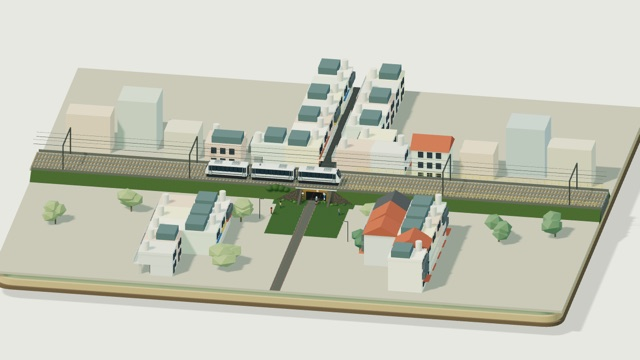
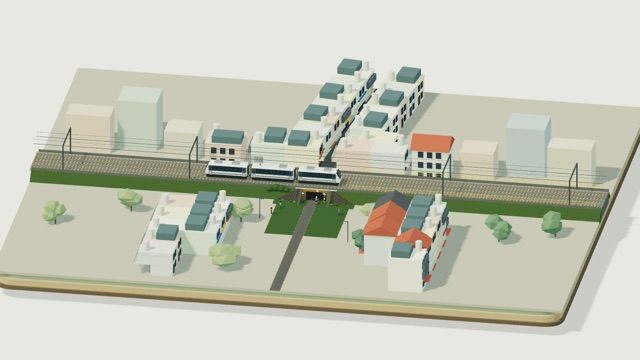
feat(garage/guanghua): 照片比對 r7——出洞後巷子改 7° 緩右彎，轉角房子補淡綠牆、藍招牌與盆栽
照片比對第四輪。r7 評審的優先順序是：A 的暗洞 → 遠處巷子右彎 → 翼牆／右紅線。評分檔與參考照片放在桌面，不進 repo。

場景（guanghua.js）：
- 出洞後的巷子從直線（TH＝0）改成 7° 緩右彎。
  依據：r6 評審量到照片一（B）遠處的路往右彎，消失點約在 57% 寬；TH＝0 時截圖的路盡頭在 25–39% 寬。
  B 機位的水平視角實量 24°，換算兩者約差 6–7°（主對話判讀）。
  先試過 35°：洞口正前方被轉角房子擋成一面亮牆，r7 評審給 A 第 7 項 0 分，所以縮成 7°。
- 彎道後左側第一棟改成淡綠牆、一樓不做店面，門口加藍招牌和兩叢盆栽。
  依據是評審對照片一出口左側的描述（粉紅、黃綠房子沿路排，綠色植物、藍招牌），位置與大小是主對話估的。
- 預覽圖換成這一版。

試過但沒留：
- 把外側地面降低（DIP .6 → .1），想讓洞口後方低一點、看起來暗一點。
  結果照片 A 機位跟著變低，畫面下緣落到洞口地面上，前景草地和路出了畫面。已還原；要做得改成約 10 m 的緩坡或路塹。
- 改太陽角度與天空亮度，共 12 組。洞口的暗像素比例都停在 0.35–0.38（照片 0.57），只靠光照做不出照片那種暗洞。

驗證（本機 headless Chrome，對 127.0.0.1:5497 上的這棵 worktree）：
- photo_check 66/66，frame_smoke 過（最後改註解後再跑一次也過），預覽圖 2/2。
- V6 smoke 1/1、sig 4/4、speed 13/13、light 12/12、geom 15/15 ×2（兩個方向）。
- V6 appear 14/14，但先紅了 1 條，判準改過才綠：
  - 紅的是「出現那一刻關掉剪裁 → 像素差 >0」這條正向對照。
  - 原因：7° 彎把巷子尾端往右移約 2 m，機車在遠端出現時，從全景鏡頭看會被右排房子擋住。
    射線從相機打到機車包圍盒 9 點，一點都沒打到機車。
  - 這不是產品回歸：幾何判準（出現、消失前後都在剪裁面外）4 趟都過，穿入檢查兩個方向也都過。
  - harness 改成四個出現、消失時刻都測，只對「在畫面內且沒被擋」的時刻要求像素差 >0。
    結果：近端兩個時刻看得到（射線 7、6／9），像素差 155、154；遠端兩個時刻 0／9，像素差 0。
  - 突變測試：把對照裡的關掉剪裁拿掉，這條就紅（13/14）；還原後 14/14。
- V5 emu3000 夜、blue 夜、emu3000 日 12/12。V2 emu3000 3/3。
- 模組 revision 沿用 guanghua-photo-0930。那個 revision 在上一顆 commit 才升，還沒出貨，所以同一個字串就能涵蓋這一版。

Changed region(s): [[0.4688, 0.1528, 0.6875, 0.4278]]

diff --git a/rail-3d/garage-scenes/guanghua.js b/rail-3d/garage-scenes/guanghua.js
@@ -239,12 +239,13 @@ export function createScene(kits=null){
  for(const sx of [-1,1])for(let i=0;i<14;i++){const w=.03+rnd()*.07,h=.2+rnd()*.5,y=(rnd()*2-1)*(HB-.15);block(rnd()<.7?stain:streak,[.006,w,h],[sx*(HW-.002),y,ZS-h/2]);}
  for(const s of [-1,1])for(const sx of [-1,1])for(let i=0;i<5;i++){const y=s*(HB+.2+rnd()*(CUT-.5)),top=ZG+(u(DIM.WALL_H)-ZG)*(1-(Math.abs(y)-HB)/CUT)-.03,w=.04+rnd()*.06,h=.15+rnd()*.3;block(wstain,[.006,w,Math.min(h,top-.05)],[sx*(CX+.002),y,top-Math.min(h,top-.05)/2]);}
  for(const s of [-1,1])for(const sx of [-1,1])for(let i=0;i<8;i++){const y=s*(HB+.05+rnd()*(CUT*.55)),top=ZG+(u(DIM.WALL_H)-ZG)*(1-(Math.abs(y)-HB)/CUT)-.02,w=.05+rnd()*.1,h=Math.min(top-.05,.3+rnd()*.5);block(rnd()<.75?wstain:stain,[.006,w,h],[sx*(HW+AB-.002),y,top-h/2]);}
- // 涵洞外的巷子：外側地面上的瀝青帶。照片比對輪把後段的右彎拉直（TH＝0）：OSM 光華街出洞後直行約 70 m、使用者 09-30 貼的照片一從洞口看出去也是一條直路（主對話判讀）。
- // 彎道的寫法（kink、TH）留著，機車路線與後段房子都照它算；TH＝0 時就是一直線，L2 鋪到底座後緣 Y。
+ // 涵洞外的巷子：外側地面上的瀝青帶。照片比對輪曾把後段的右彎拉直（TH＝0，依 OSM 光華街出洞後直行約 70 m，主對話判讀），r7 改成 7° 緩右彎（理由見 TH 那行）。
+ // 機車路線與後段房子都照彎道（kink、TH）算，L2 鋪到底座後緣 Y。
  // 【r6】洞口前（−y，照片角度那一側）的巷子收窄成 x∈[FL,FR]：兩張照片的畫面底邊，路只從左紅線左邊約 .5 m 鋪到右紅線（主對話依照片與機位擬合估計），其餘是草。
  const FL=-u(1.7),FR=u(.6);
  block(asphalt,[FR-FL,Y-YC,.012],[(FL+FR)/2,-(YC+Y)/2,ZG+.006]);
- const L1=u(6),TH=0,kink=[0,YC+L1],L2=Y-.01-kink[1];
+ // 【r7】後段改成緩右彎 7°：r6 評審量到照片一（B）遠處的路往右彎、消失點約在 57％ 寬，TH＝0 的截圖路盡頭在 25–39％ 寬；主對話以 B 機位實量水平視角 24° 換算兩者約差 6–7°，取 7°。先試的 35° 讓洞口正前方被轉角房子擋成死巷（r7 評審：照片 A 第 7 項 0 分）。
+ const L1=u(6),TH=7*Math.PI/180,kink=[0,YC+L1],L2=(Y-.01-kink[1]-AH*Math.sin(TH))/Math.cos(TH); // 斜的那段鋪到遠端外角剛好碰到底座後緣 Y（第一輪 TH＝35° 時約 20.2）
  block(asphalt,[2*AH,L1,.012],[0,YC+L1/2,ZG+.006]);
  block(asphalt,[2*AH,L2,.012],[kink[0]+Math.sin(TH)*L2/2,kink[1]+Math.cos(TH)*L2/2,ZG+.006],[0,0,-TH]);
 
@@ -269,7 +270,7 @@ export function createScene(kits=null){
  const hz=ZG,tints=[0,1,2,3,4],roofs=['tin','pitched','parapet','tin'],grounds=['plain','shop','plain','arcade'];
  let hi=0;
  const houseList=[];
- const house=(x,y,facing,o={})=>{const i=hi++;houseList.push({i,x,y,facing,floors:o.floors??(2+(i%2))});props.townhouse(x,y,hz,{floors:o.floors??(2+(i%2)),width:o.width??2.6,depth:o.depth??3.2,tint:tints[(i*3)%5],facing,roof:o.roof??roofs[i%4],ground:grounds[(i+1)%4],balcony:i%3?'rail':'cage',tanks:1,back:true});};
+ const house=(x,y,facing,o={})=>{const i=hi++;houseList.push({i,x,y,facing,floors:o.floors??(2+(i%2))});props.townhouse(x,y,hz,{floors:o.floors??(2+(i%2)),width:o.width??2.6,depth:o.depth??3.2,tint:o.tint??tints[(i*3)%5],facing,roof:o.roof??roofs[i%4],ground:o.ground??grounds[(i+1)%4],balcony:i%3?'rail':'cage',tanks:1,back:true});};
  const PX=7; // 空地半寬（單位；本輪自訂：看涵洞鏡頭視野半寬約 3.6，再留餘裕；斜 ±20° 看洞口的視線在到底座前緣時側移約 8.4，所以內排只蓋到 y≈-17）
  // 房子從洞口前 6 單位以外才開始蓋：全景鏡頭抬高 26° 看，近處的房子會把後面的路堤正面整段擋住（本輪自訂）。
  for(let i=0;i<5;i++){const y=-(YC+6+i*2.7);if(i<3){house(-(PX+1.6),y,Math.PI/2);house(PX+1.6,y+.3,-Math.PI/2);}house(-(PX+4.8),y,-Math.PI/2);house(PX+4.8,y+.3,Math.PI/2);}
@@ -277,7 +278,8 @@ export function createScene(kits=null){
  house(-2.45,YC+1.4,Math.PI/2,{floors:2,roof:'tin'});house(2.45,YC+1.4,-Math.PI/2,{floors:2,roof:'parapet'});house(-5.65,YC+1.4,-Math.PI/2,{floors:2,roof:'tin'});house(5.65,YC+1.4,Math.PI/2,{floors:2,roof:'parapet'});
  for(let i=0;i<6;i++){const s=1.6+i*2.7,cx=kink[0]+Math.sin(TH)*s,cy=kink[1]+Math.cos(TH)*s,ln=[-Math.cos(TH),Math.sin(TH)],rn=[Math.cos(TH),-Math.sin(TH)];
   const o={floors:2,roof:i%2?'tin':'parapet'}; // 照片比對輪：兩層平頂（照片角度看過去，三層與斜屋頂會從列車上方冒出來；主對話判讀）
-  house(cx+ln[0]*2.45,cy+ln[1]*2.45,Math.PI/2-TH,o);house(cx+rn[0]*(2.45+(i<1?1.6:0)),cy+rn[1]*(2.45+(i<1?1.6:0)),-Math.PI/2-TH,o);}
+  // r7：彎道後左側第一棟（i＝0 的左側）改淡綠牆、一樓不做店面玻璃（r7 評審描述照片一（B）出口「左邊的粉紅、黃綠房子沿著路排」，選淡綠是主對話判讀）
+  house(cx+ln[0]*2.45,cy+ln[1]*2.45,Math.PI/2-TH,i?o:{...o,tint:4,ground:'plain'});house(cx+rn[0]*(2.45+(i<1?1.6:0)),cy+rn[1]*(2.45+(i<1?1.6:0)),-Math.PI/2-TH,o);}
  // 洞口後、路堤兩側外側地面上各放一棟量體，擋住空曠的路堤腳（洞口前那兩棟拿掉了，那裡是空地）。
  for(const [x,y,f,fl] of [[-9.8,YC+.9,Math.PI,2],[9.8,YC+.9,Math.PI,3]])house(x,y,f,{floors:fl,width:3.4,depth:3.0});
  // ── 周邊補景（本輪自訂）：後側（+y）路堤外沿排低矮方塊當市街背景；前側（−y）只種行道樹——前側不放高過路堤的東西，低角度才看得到路堤面。
@@ -345,6 +347,9 @@ export function createScene(kits=null){
  put(paint(new THREE.CylinderGeometry(u(.4),u(.4),u(.05),24),'rim'),[MX,PY-u(.07),ZG+MZ],[.15,0,-.35]); // 反光鏡：橘框＋鏡面，微朝巷子、略朝下
  put(paint(new THREE.CylinderGeometry(u(.36),u(.36),u(.06),24),'mirror'),[MX-u(.004),PY-u(.08),ZG+MZ],[.15,0,-.35]);
  boxG('blue',[u(.32),u(.03),u(.5)],[MX,PY-u(.06),ZG+u(1.03)]);boxG('white',[u(.28),u(.03),u(.36)],[MX,PY-u(.06),ZG+u(.58)]);
+ {const f=Math.PI/2-TH,n=[Math.sin(f),-Math.cos(f)],t=[Math.cos(f),Math.sin(f)],h=houseList.find(h=>h.facing===f),c=[h.x+n[0]*1.6,h.y+n[1]*1.6]; // r7：彎道後左側第一棟正面的藍招牌與兩叢盆栽（r6 評審描述照片一（B）左側立面「綠色植物、藍招牌、黃綠牆」，位置與大小是主對話依照片估計）
+  boxG('blue',[1.1,.03,.32],[c[0]+n[0]*.03-t[0]*.45,c[1]+n[1]*.03-t[1]*.45,ZG+.95],[0,0,f]);
+  for(const a of [-1.05,.95])bush(c[0]+n[0]*.2+t[0]*a,c[1]+n[1]*.2+t[1]*a,ZG+.05,.18,'bush2');}
  const RH=u(.95),RP=u(1.6); // 路堤頂護欄上的黃色欄杆（照片二右上角是黃色欄杆、左上角是灌木，所以只放 +x 側，兩面都放；主對話判讀）
  for(const s of [-1,1])for(const sx of [1]){const a=CX+u(4),b=X-.3,y=s*(HB-u(.12));
   for(let x=a;x<=b+1e-6;x+=RP)boxG('yellow',[.03,.03,RH],[sx*x,y,ZP+RH/2]);
